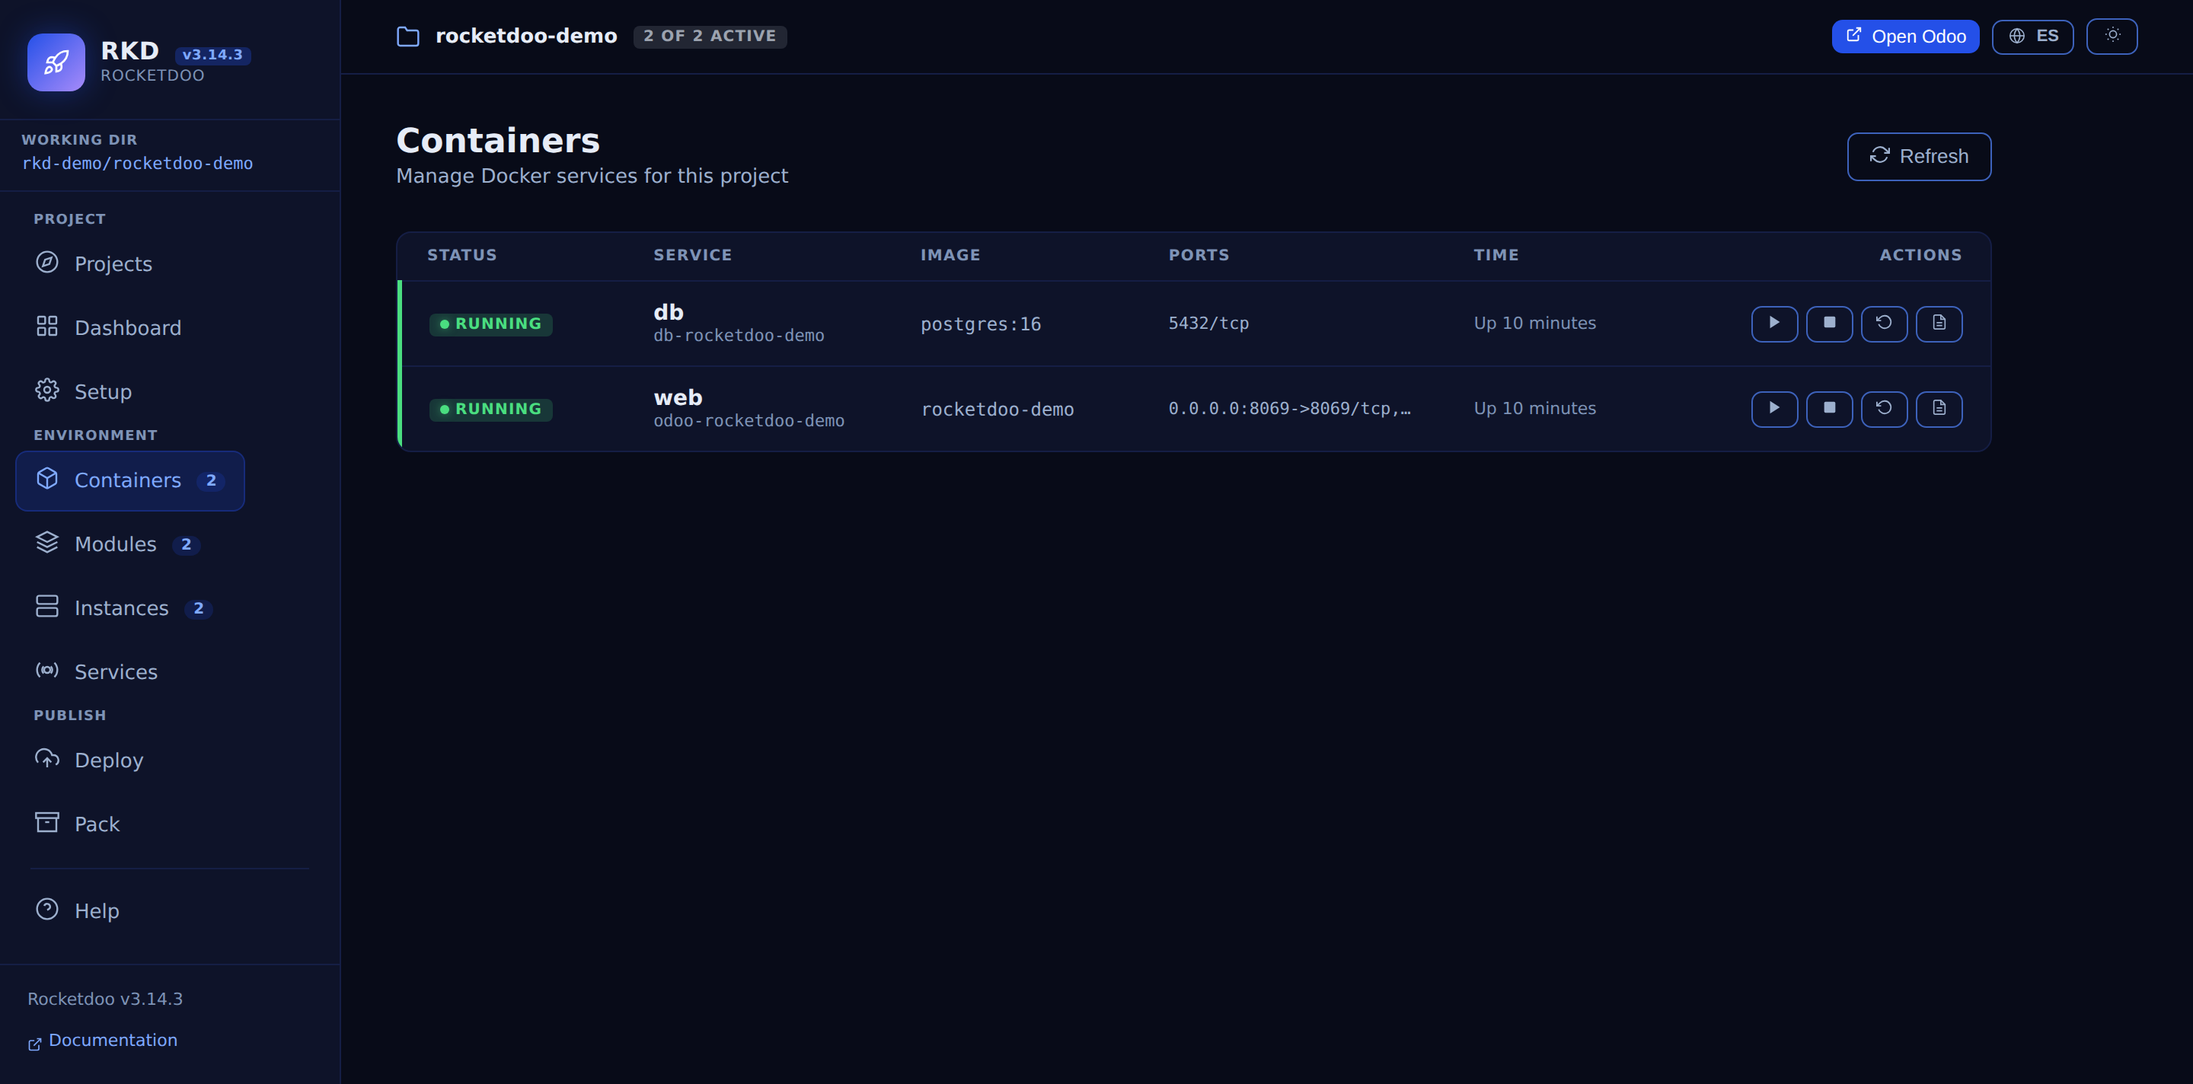
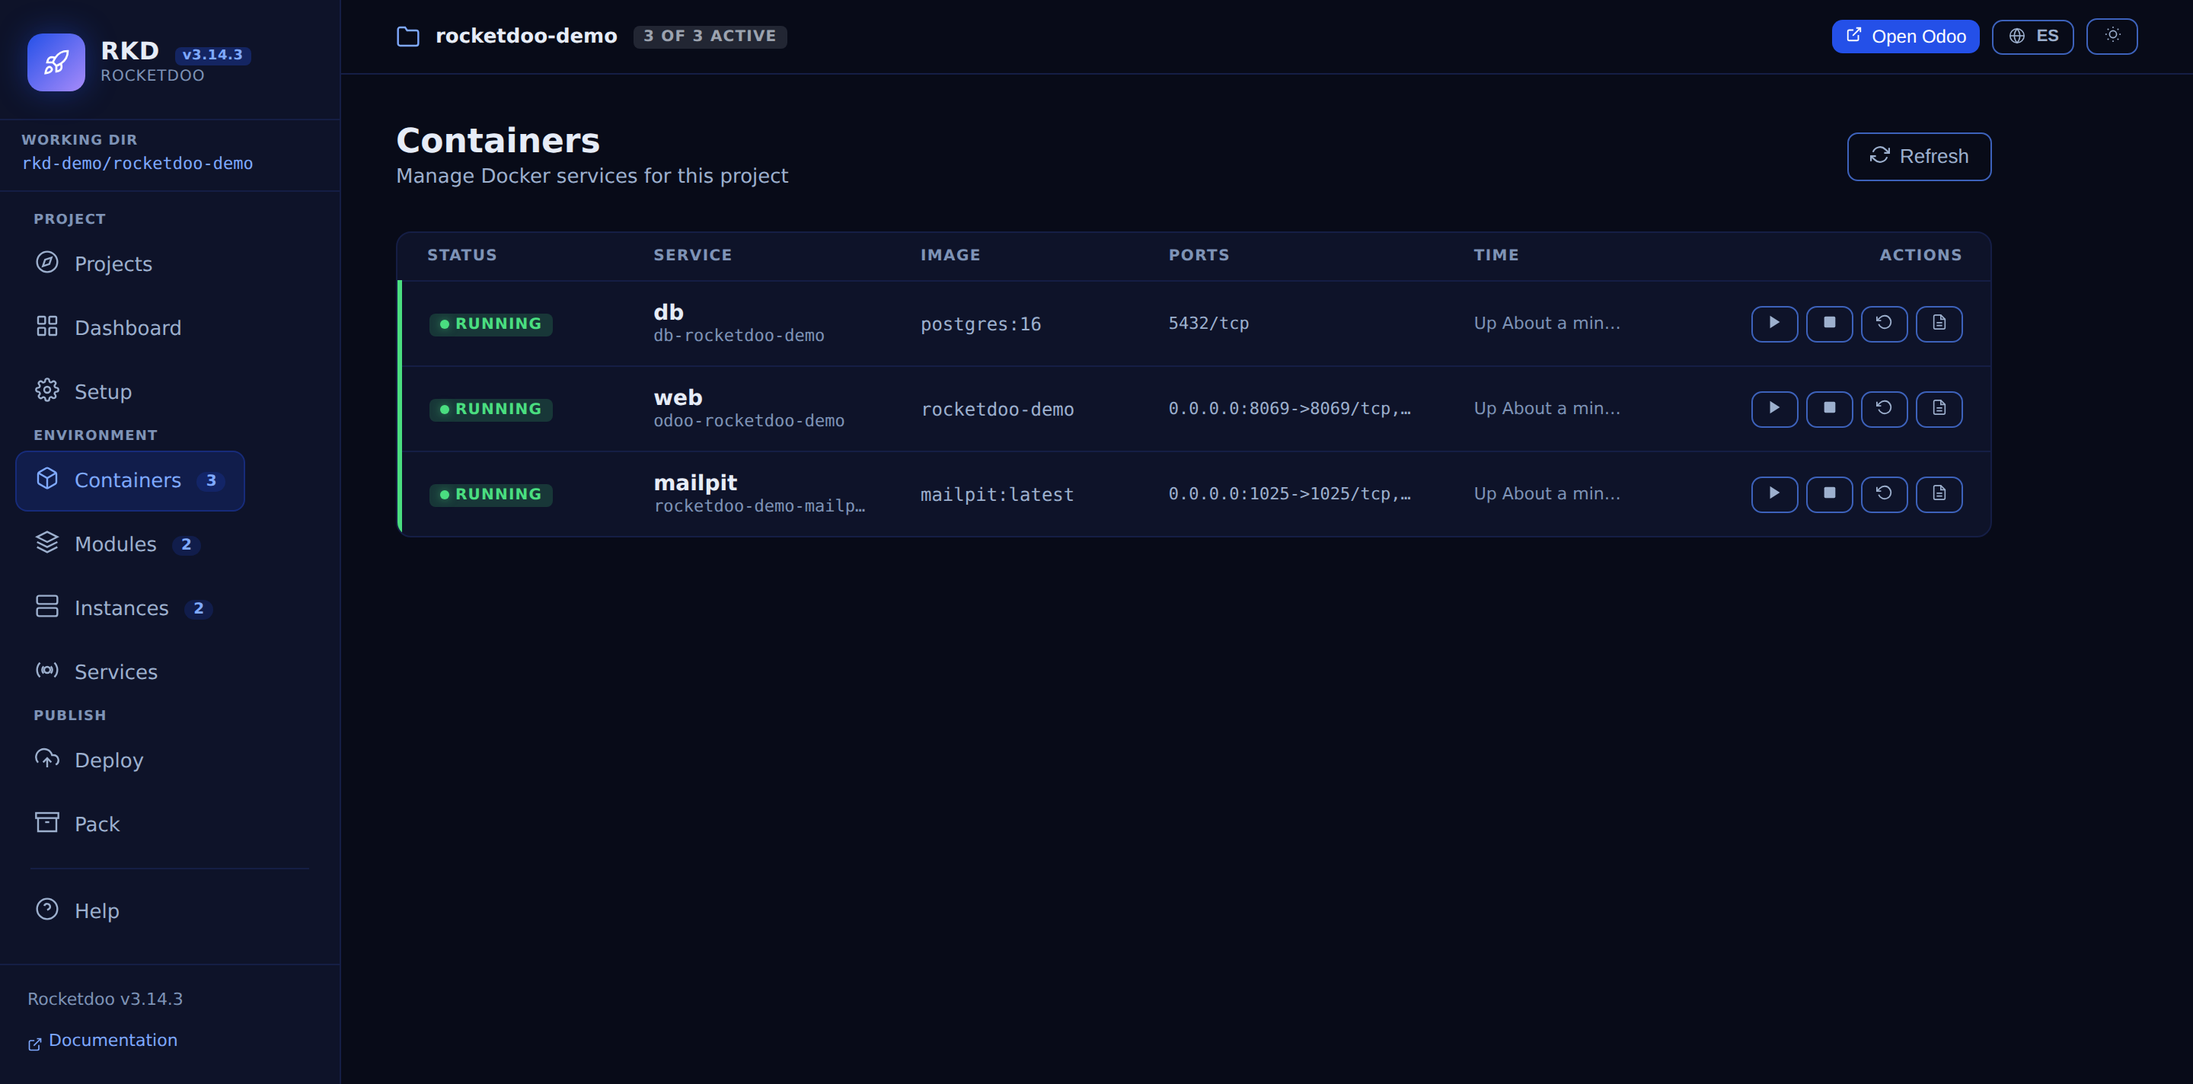
FIX: lo que la revision encontro mal documentado
Una revision adversarial contra el codigo encontro seis afirmaciones que no
coincidian con lo que hace rkd. Verifique cada una antes de corregirla.

- structure.md decia que `rkd pack` deja el directorio `.rkd/` entero afuera del
  ZIP "asi un entorno compartido nunca se lleva tus credenciales". Falso, y
  ademas contradecia lo que la propia command.md ya aclaraba: `odoo_pg_pass` y
  `config/odoo.conf` viajan a proposito, y lo que esta bajo `.rkd/` y no figura
  en la lista de ignorados —`.rkd/traefik.yaml`, por ejemplo— tambien. Un pack
  se le manda a un companero; no se publica. De paso, `rkd scaffold` no ignora
  `.rkd/` sino cinco rutas puntuales.
- gui.md ubicaba mal la confirmacion del seed: elegir la base la guarda en el
  acto, y el cartel que te hace escribir el nombre del entorno aparece recien al
  desplegar — y se saltea con Simulacion tildada.
- El parrafo del seed en castellano citaba los textos en ingles de la GUI,
  desmentido por su propia captura: son "Base de datos de origen" y "Ninguna —
  base nueva de cero (recomendado)".
- command.md tenia invertido el mecanismo de Mailpit: los puertos elegidos se
  escriben en el compose al ACTIVAR; `mail off` solo comenta el bloque y los
  deja donde estan.
- deployment.md se quedaba corta con `rkd deploy run --dry-run`: no es que no
  chequee nada —escanea addons/ y rechaza un --module inexistente—, lo que no
  hace es contactar al destino. Y faltaba lo importante: con un destino por
[…]

diff --git a/docs/en/command.md b/docs/en/command.md
@@ -304,7 +304,7 @@ rkd launch
 
 A rocket climbs a field of stars on the terminal's alternate screen — like `vim` or `less`, so your
 scrollback is left alone — and the flight ends on one of six lines of the "Zen of Odoo" about
-customizing with Studio. The animation is skipped without a TTY, with `TERM` set to `dumb` or
+customizing with Studio. The six lines are in Spanish, whatever your locale. The animation is skipped without a TTY, with `TERM` set to `dumb` or
 `unknown`, or on a terminal smaller than 25×13, but **the message is printed anyway**, so
 `rkd launch | cat` still reads. It respects `NO_COLOR`.
 
@@ -447,8 +447,10 @@ rkd mail open
 
 `rkd mail on` reads the ports declared in the compose file, keeps them when they are free, and takes
 the next free one when they are not — counting ports declared by a sibling project that is currently
-switched off, not only ports in use right now. It prints which ones it took and writes them back into
-the compose file when you turn Mailpit off, so a browser bookmark keeps working.
+switched off, not only ports in use right now. It prints which ones it took and **writes them into
+the compose file as it enables Mailpit**; `rkd mail off` only comments the block out and leaves those
+numbers in place, so the project keeps the same ports next time and a browser bookmark keeps
+working.
 
 `rkd mail open` and `rkd mail status` read the real published port rather than assuming 8025, which
 is why the status panel is the place to look for the web UI address.
@@ -601,9 +603,10 @@ the VPS by hand — deliberately so, because the alternative is a flag that over
 production with a development dump. A database the target already serves and Rocketdoo did not seed
 is never overwritten: the deploy refuses and says so.
 
-Neutralization differs by target. Both regenerate the database UUID and disable the Mailpit mail
-server, which points at a host that does not exist on the VPS — leaving it would make every outgoing
-mail fail silently. **Staging only** also disables scheduled actions, mail servers and payment
+Neutralization differs by target. Both regenerate the database UUID, disable the Mailpit mail
+server — which points at a host that does not exist on the VPS, so leaving it would make every
+outgoing mail fail silently — and repoint `web.base.url` at the environment's domain, dropping
+`web.base.url.freeze` so the new value is the one Odoo uses. **Staging only** also disables scheduled actions, mail servers and payment
 providers; doing that to production would stop the crons of the instance you are launching.
 
 The admin password of a seeded database is not replaced — its users keep theirs — and the closing

diff --git a/docs/es/gui.md b/docs/es/gui.md
@@ -168,10 +168,12 @@ Todo lo de los addons en una pantalla:
 Una tarjeta por entorno configurado en `.rkd/instance.yaml` (stage, prod) con host, dominio, versión
 de Odoo, tipo de despliegue y ruta remota, más **Desplegar** y la casilla **Simulación (dry run)**.
 
-> **Nuevo en la 3.14.** Cada tarjeta lleva además un selector **Base de origen**: `None — fresh
-> database from scratch (recommended)`, o alguna de tus bases locales para restaurar en ese entorno.
-> Elegir una te pide escribir el nombre del entorno antes de guardarla, y los avisos que levanta el
-> pre-flight vuelven como notificaciones en esta pantalla. Ver
+> **Nuevo en la 3.14.** Cada tarjeta lleva además un selector **Base de datos de origen**: `Ninguna —
+> base nueva de cero (recomendado)`, o alguna de tus bases locales para restaurar en ese entorno.
+> Elegir una la guarda en el acto; la confirmación llega después, al apretar **Desplegar**, como un
+> cartel que te hace escribir el nombre del entorno. **Tildar Simulación (dry run) saltea ese
+> cartel**, porque una simulación no restaura nada. Los avisos que levanta el pre-flight vuelven como
+> notificaciones en esta pantalla. Ver
 > [Sembrar un entorno con una base local](command.md#sembrar-un-entorno-con-una-base-local).
 
 ### Servicios
@@ -191,10 +193,11 @@ Los servicios locales opcionales, juntos:
 
 ![Pantalla Despliegue](../img/gui-deploy-es.png)
 
-Desplegá módulos a los targets configurados en `.rkd/deploy.yaml`, con **Validar módulos**,
-**Desplegar** y la casilla **Simulación (dry run)** — el equivalente en la GUI de `rkd deploy run`. El
-formulario que crea `deploy.yaml` elige la **clave SSH de una lista con las claves de `~/.ssh/`**
-(3.14.2), en vez de pedirte que tipees una ruta.
+Desplegá módulos a los targets configurados en `.rkd/deploy.yaml`: una tarjeta por destino, cada una
+con **Desplegar** y **Simulación (dry run)**, más **Validar módulos** arriba — el equivalente en la
+GUI de `rkd deploy run`. Cuando todavía no hay `deploy.yaml`, la pantalla muestra en cambio un
+formulario **Crear configuración de despliegue**, que elige la **clave SSH de una lista con las claves
+de `~/.ssh/`** (3.14.2) en vez de pedirte que tipees una ruta.
 
 > **Arreglado en la 3.14.3.** Los dos botones fallaban siempre: `Desplegar` llamaba a un método que no
 > existía y un `except` ancho convertía la falla en un `200` optimista, y `Validar módulos` mostraba

diff --git a/docs/es/command.md b/docs/es/command.md
@@ -449,8 +449,9 @@ rkd mail open
 
 `rkd mail on` lee los puertos declarados en el compose, los conserva cuando están libres y toma el
 siguiente libre cuando no — contando también los puertos que declara un proyecto hermano que está
-apagado, no sólo los que están en uso ahora mismo. Imprime cuáles tomó y los escribe de vuelta en el
-compose al apagar Mailpit, así un favorito del navegador sigue sirviendo.
+apagado, no sólo los que están en uso ahora mismo. Imprime cuáles tomó y **los escribe en el compose
+al activar Mailpit**; `rkd mail off` sólo comenta el bloque y deja esos números donde están, así el
+proyecto conserva los mismos puertos la próxima vez y un favorito del navegador sigue sirviendo.
 
 `rkd mail open` y `rkd mail status` leen el puerto publicado real en vez de dar por sentado el 8025,
 que es justamente por lo que el panel de estado es el lugar donde mirar la dirección de la interfaz
@@ -604,9 +605,10 @@ base en el VPS a mano — deliberadamente, porque la alternativa es un flag que 
 cliente con un dump de desarrollo. Una base que el destino ya sirve y que Rocketdoo no sembró nunca se
 pisa: el deploy se niega y lo dice.
 
-La neutralización difiere según el destino. Los dos regeneran el UUID de la base y desactivan el
-servidor de correo de Mailpit, que apunta a un host que en el VPS no existe — dejarlo haría fallar
-todo el correo saliente en silencio. **Sólo staging** desactiva además las acciones programadas, los
+La neutralización difiere según el destino. Los dos regeneran el UUID de la base, desactivan el
+servidor de correo de Mailpit —que apunta a un host que en el VPS no existe, así que dejarlo haría
+fallar todo el correo saliente en silencio— y reapuntan `web.base.url` al dominio del entorno,
+borrando `web.base.url.freeze` para que el valor nuevo sea el que Odoo use. **Sólo staging** desactiva además las acciones programadas, los
 servidores de correo y los proveedores de pago; hacerle eso a producción apagaría los crons de la
 instancia que estás lanzando.
 

diff --git a/docs/en/gui.md b/docs/en/gui.md
@@ -164,9 +164,10 @@ A card per environment configured in `.rkd/instance.yaml` (stage, prod) with hos
 version, deployment type and remote path, plus **Deploy** and a **Dry run** checkbox.
 
 > **New in 3.14.** Each card also carries a **Seed database** selector: `None — fresh database from
-> scratch (recommended)`, or one of your local databases to restore into that environment. Choosing
-> one asks you to type the environment name before it is saved, and the warnings the pre-flight
-> raises come back as notices on this screen. See
+> scratch (recommended)`, or one of your local databases to restore into that environment. Picking
+> one saves it straight away; the confirmation comes later, when you press **Deploy**, as a prompt
+> that makes you type the environment name. **Ticking Dry run skips that prompt**, since a dry run
+> restores nothing. The warnings the pre-flight raises come back as notices on this screen. See
 > [Seeding an environment with a local database](command.md#seeding-an-environment-with-a-local-database).
 
 ### Services
@@ -186,9 +187,10 @@ The optional local services, together:
 
 ![Deploy screen](../img/gui-deploy-en.png)
 
-Deploy modules to the targets configured in `.rkd/deploy.yaml`, with **Validate Modules**, **Deploy**
-and a **Dry run** checkbox — the GUI equivalent of `rkd deploy run`. The form that creates
-`deploy.yaml` picks the **SSH key from a list of the keys in `~/.ssh/`** (3.14.2) rather than asking
+Deploy modules to the targets configured in `.rkd/deploy.yaml`: one card per target, each with
+**Deploy** and **Dry run**, plus **Validate Modules** above — the GUI equivalent of
+`rkd deploy run`. With no `deploy.yaml` yet, the screen shows a **Create Deploy Config** form
+instead, which picks the **SSH key from a list of the keys in `~/.ssh/`** (3.14.2) rather than asking
 you to type a path.
 
 > **Fixed in 3.14.3.** Both buttons used to fail every time: `Deploy` called a method that did not

diff --git a/docs/es/structure.md b/docs/es/structure.md
@@ -72,9 +72,16 @@ De todos modos, no te preocupes, ya que normalmente no será necesario modificar
 | `.rkd/traefik.yaml` | La configuración del proxy inverso local que escribe `rkd traefik on`. |
 | `.rkd/secrets/` | Credenciales generadas — **nunca compartas este directorio.** |
 
-`rkd scaffold` agrega `.rkd/` al `.gitignore`, y `rkd pack` deja el directorio entero afuera del ZIP
-que arma, así un entorno compartido nunca se lleva tus credenciales. `rkd info` imprime un panel
-**Secrets at risk** cuando falta esa cobertura.
+`rkd scaffold` agrega cinco de esas rutas al `.gitignore` —`.rkd/secrets/`, `.rkd/instance.yaml`,
+`.rkd/deploy.yaml`, `.rkd/deploy_backups/` y `.rkd/deploy.log`— y `rkd info` imprime un panel
+**Secrets at risk** cuando falta esa cobertura. Ojo que `.rkd/traefik.yaml` *no* está entre ellas: no
+guarda ninguna credencial, sólo la configuración del proxy local.
+
+> **Un pack no queda saneado al punto de poder publicarse.** `rkd pack` mantiene afuera del ZIP las
+> cuatro rutas ignoradas de arriba, pero `odoo_pg_pass` y `config/odoo.conf` viajan a propósito —sin
+> ellos el entorno compartido no arranca— y también viaja cualquier otra cosa bajo `.rkd/` que no
+> esté en esa lista, como `.rkd/traefik.yaml`. Mandale el archivo a un compañero; no lo publiques.
+> En [Qué nunca entra al ZIP](command.md#que-nunca-entra-al-zip) está la lista exacta.
 
 Otros dos directorios son parte del mismo layout generado: `instance/` guarda las plantillas Jinja
 que renderiza el deploy al VPS, y `deploy/` las que usa el deploy de módulos. Normalmente no se

diff --git a/docs/es/deployment.md b/docs/es/deployment.md
@@ -88,11 +88,18 @@ rkd deploy validate
 
 * Permite validar nuestros modulos antes de un despliegue
 
-> **`rkd deploy run --dry-run` todavía no chequea nada.** Imprime
-> `Dry-run completed successfully` sin contactar al destino, así que tratalo como un lugar reservado y
-> no como un ensayo — el que de verdad inspecciona tus módulos es `rkd deploy validate`. El dry run de
+> **`rkd deploy run --dry-run` nunca contacta al destino.** Escanea `addons/`, lista los módulos y
+> rechaza un `--module` que no existe, y después imprime `Dry-run completed successfully` sin hablar
+> con el servidor. Tratalo como un lugar reservado y no como un ensayo — el que de verdad inspecciona
+> tus módulos es `rkd deploy validate`. El dry run de
 > [`rkd instance deploy`](command.md#el-pre-flight-y-un-dry-run-que-no-escribe-nada) es otra cosa por
 > completo: corre el pre-flight entero contra el servidor e informa bloqueantes reales.
+
+> **Con un destino por contraseña, el dry run igual te la pide y la guarda.** El deployer se
+> construye antes de llegar a la rama del dry run, así que un destino configurado con autenticación
+> por contraseña abre el `VPS Password:` y escribe `.rkd/secrets/vps_<destino>.env` (permisos 600):
+> una simulación que deja una credencial en disco. Si eso te importa, usá autenticación por clave, o
+> exportá la variable con la contraseña.
 
 > **Arreglado en la 3.14.3, si desplegás desde la GUI.** Los botones **Desplegar** y **Validar
 > módulos** fallaban en cada llamada — el primero por un método que no existía, tapado por un `except`

diff --git a/docs/en/structure.md b/docs/en/structure.md
@@ -72,9 +72,16 @@ However, do not worry, as you typically will not need to modify this file manual
 | `.rkd/traefik.yaml` | The local reverse proxy configuration written by `rkd traefik on`. |
 | `.rkd/secrets/` | Generated credentials — **never share this directory.** |
 
-`rkd scaffold` adds `.rkd/` to `.gitignore`, and `rkd pack` leaves the whole directory out of the ZIP
-it builds, so a shared environment never carries your credentials. `rkd info` prints a **Secrets at
-risk** panel when that coverage is missing.
+`rkd scaffold` adds five of those paths to `.gitignore` — `.rkd/secrets/`, `.rkd/instance.yaml`,
+`.rkd/deploy.yaml`, `.rkd/deploy_backups/` and `.rkd/deploy.log` — and `rkd info` prints a **Secrets
+at risk** panel when that coverage is missing. Note that `.rkd/traefik.yaml` is *not* among them: it
+holds no credential, only the local proxy settings.
+
+> **A pack is not sanitized to the point of being publishable.** `rkd pack` keeps the four ignored
+> paths above out of the ZIP, but `odoo_pg_pass` and `config/odoo.conf` travel on purpose — the
+> shared environment does not start without them — and so does anything else under `.rkd/` that is
+> not on that list, such as `.rkd/traefik.yaml`. Send the archive to a teammate; do not publish it.
+> [What never enters the ZIP](command.md#what-never-enters-the-zip) has the exact list.
 
 Two more directories belong to the same generated layout: `instance/` holds the Jinja templates the
 VPS deploy renders, and `deploy/` the ones the module deploy uses. You do not normally edit either.

diff --git a/docs/en/deployment.md b/docs/en/deployment.md
@@ -81,11 +81,18 @@ rkd deploy validate
 
 * Validates the modules before deployment
 
-> **`rkd deploy run --dry-run` does not check anything yet.** It prints
-> `Dry-run completed successfully` without contacting the target, so treat it as a placeholder rather
-> than a rehearsal — `rkd deploy validate` is what actually inspects your modules. The dry run of
+> **`rkd deploy run --dry-run` never contacts the target.** It scans `addons/`, lists the modules
+> and refuses a `--module` that does not exist, and then prints `Dry-run completed successfully`
+> without talking to the server at all. Treat it as a placeholder rather than a rehearsal —
+> `rkd deploy validate` is what actually inspects your modules. The dry run of
 > [`rkd instance deploy`](command.md#the-pre-flight-and-a-dry-run-that-writes-nothing) is a different
 > thing entirely: it runs the full pre-flight against the server and reports real blockers.
+
+> **On a password target, the dry run still asks for the password and stores it.** The deployer is
+> built before the dry-run branch is reached, so a target configured with password authentication
+> prompts `VPS Password:` and writes `.rkd/secrets/vps_<target>.env` (mode 600) — a dry run that
+> leaves a credential on disk. Use key authentication, or export the password variable, if that
+> matters to you.
 
 > **Fixed in 3.14.3, if you deploy from the GUI.** The **Deploy** and **Validate Modules** buttons
 > failed on every call — the first through a method that did not exist, hidden behind a wide `except`

diff --git a/docs/es/index.md b/docs/es/index.md
@@ -23,7 +23,7 @@ un `pack` que deja tus secretos en casa, y una GUI que dejó de congelarse.
 > base local cuando configurás el entorno y el deploy la vuelca, la transfiere, la restaura en el
 > servidor —filestore incluido— y neutraliza lo que no debe correr ahí.
 
-![La pantalla Instancias, con el selector de base de origen en cada entorno](../img/gui-instances-es.png)
+![La pantalla Instancias, con el selector de base de datos de origen en cada entorno](../img/gui-instances-es.png)
 
 ~~~
 rkd instance init             # "Database for stage:" → elegí una base local, o ninguna
@@ -112,8 +112,8 @@ pasar.
 
 > **Desde la 3.9.2.** `rkd pack` metía las credenciales del emisor en el ZIP que le pasaba a otro.
 
-El archivo ya no se lleva `.ssh/`, `.rkd/secrets/`, `.rkd/instance.yaml`, `.rkd/deploy.yaml` ni
-ningún `*.env`, y **ningún symlink entra** — un enlace apuntando a un archivo de secretos lo
+El archivo ya no se lleva `.ssh/`, `.rkd/secrets/`, `.rkd/instance.yaml`, `.rkd/deploy.yaml`,
+`traefik/certs/acme.json` ni ningún `*.env`, y **ningún symlink entra** — un enlace apuntando a un archivo de secretos lo
 exfiltraba. El panel nombra todo lo que dejó afuera, que es justamente la lista que el receptor tiene
 que reescribir. Desde la 3.10 el verificador además lee los primeros 64 KiB de cada entrada buscando
 cabeceras PEM, en vez de confiar en los nombres de archivo. Dos credenciales sí siguen viajando a

diff --git a/docs/en/index.md b/docs/en/index.md
@@ -112,8 +112,8 @@ it through.
 > **Since 3.9.2.** `rkd pack` used to put the sender's own credentials in the ZIP it handed to
 > someone else.
 
-The archive no longer carries `.ssh/`, `.rkd/secrets/`, `.rkd/instance.yaml`, `.rkd/deploy.yaml`
-or any `*.env`, and **no symlink enters it** — a link pointing at a secrets file used to exfiltrate
+The archive no longer carries `.ssh/`, `.rkd/secrets/`, `.rkd/instance.yaml`, `.rkd/deploy.yaml`,
+`traefik/certs/acme.json` or any `*.env`, and **no symlink enters it** — a link pointing at a secrets file used to exfiltrate
 it. The panel names everything it left out, which is exactly the list the receiver has to rewrite.
 Since 3.10 the verifier also reads the first 64 KiB of each entry looking for PEM headers, rather
 than trusting filenames. Two credentials still travel on purpose — `odoo_pg_pass` and
